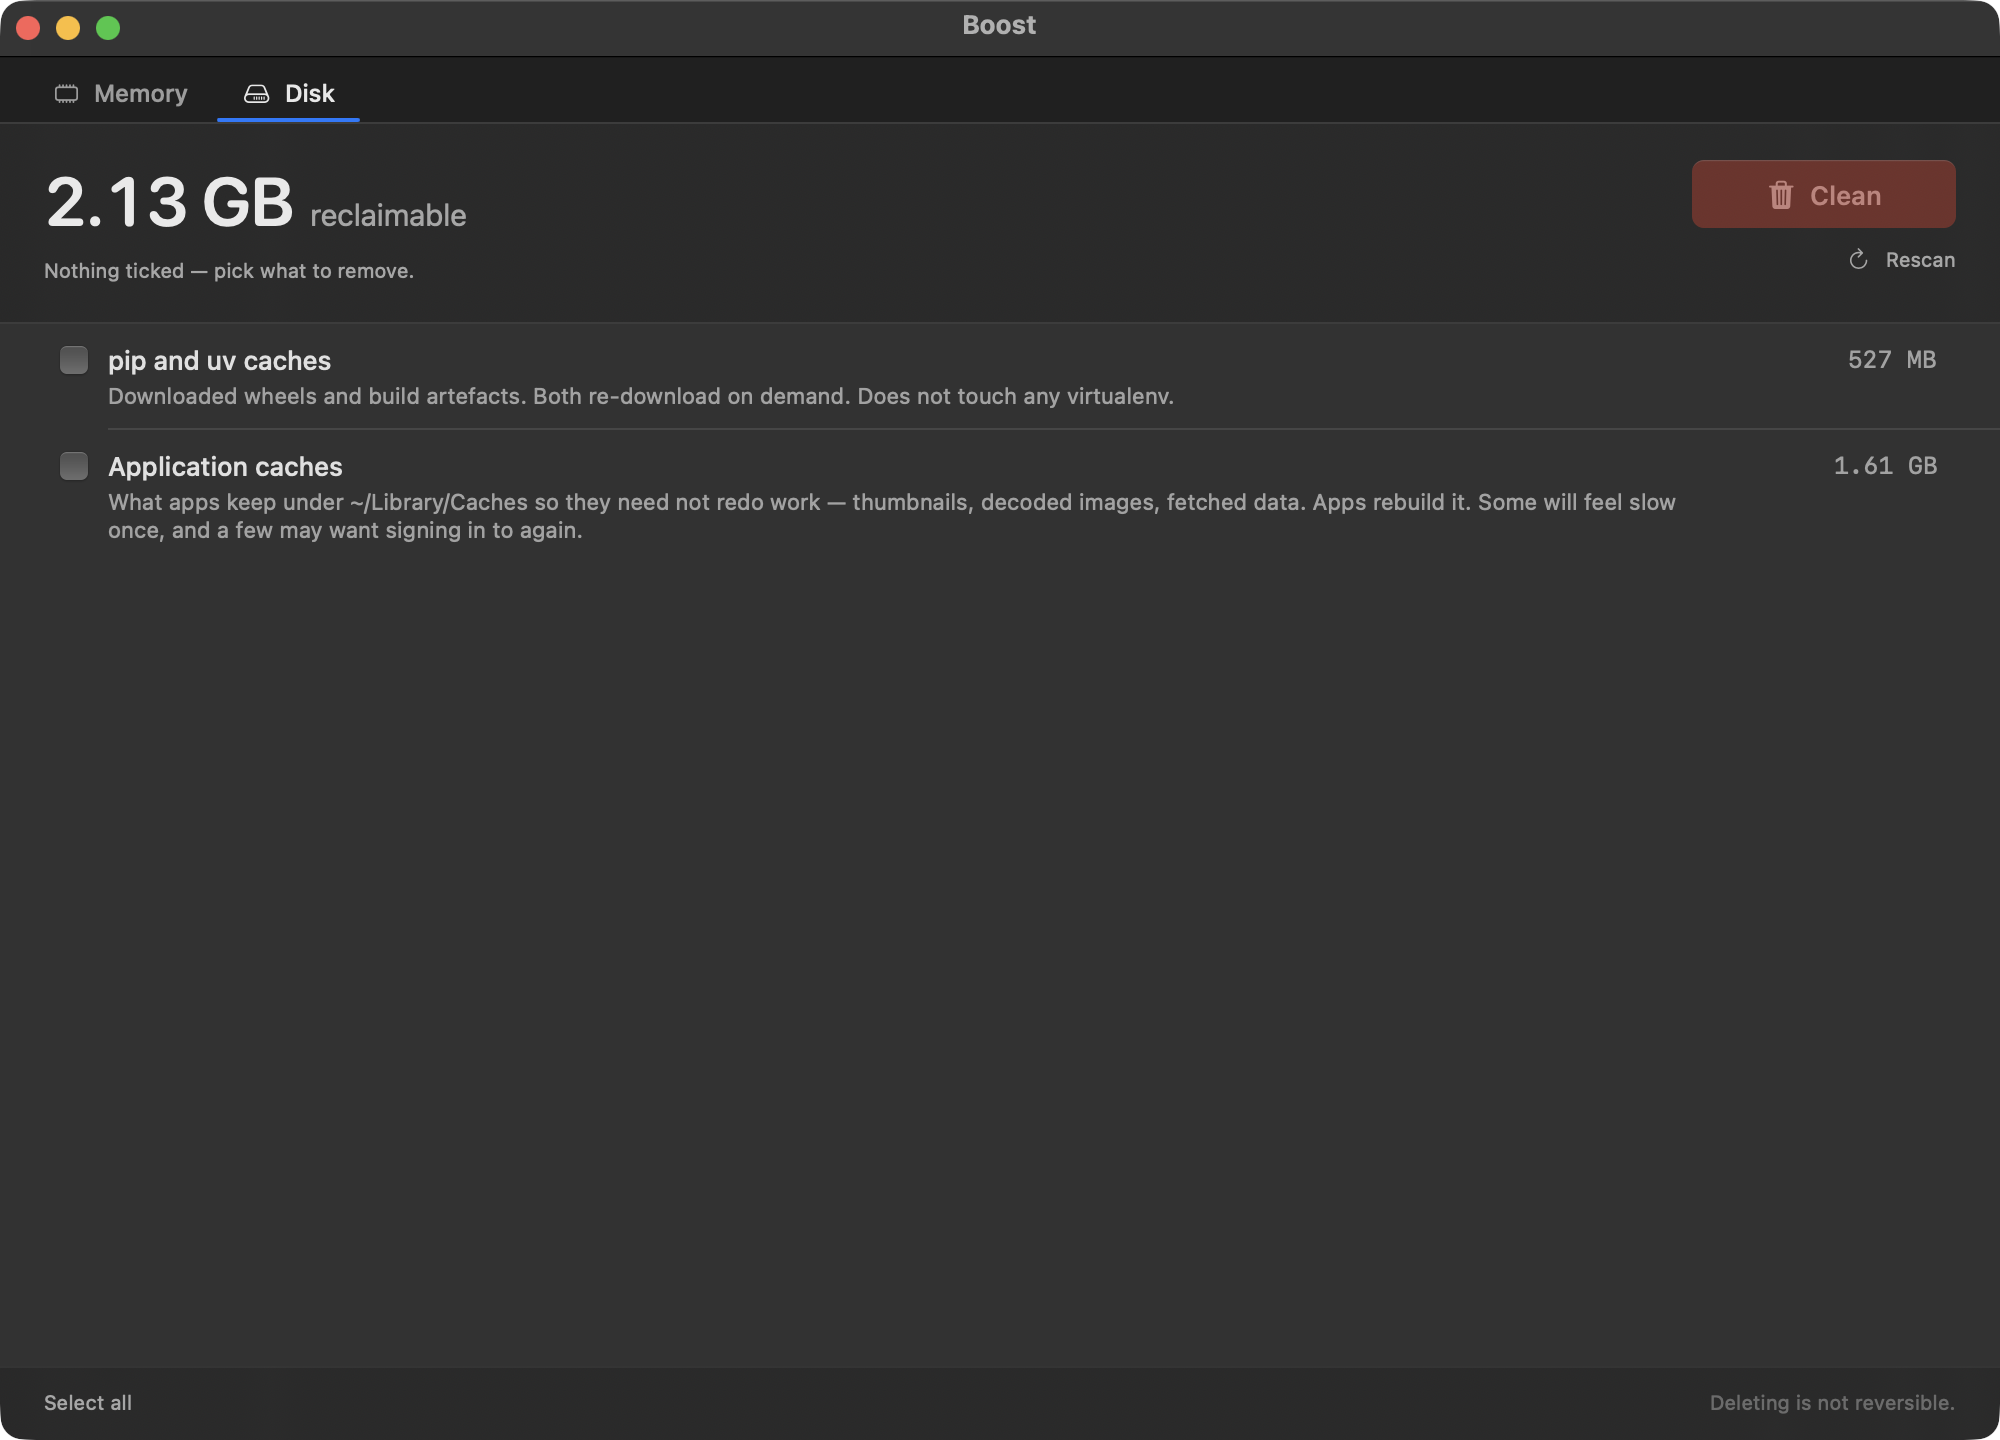
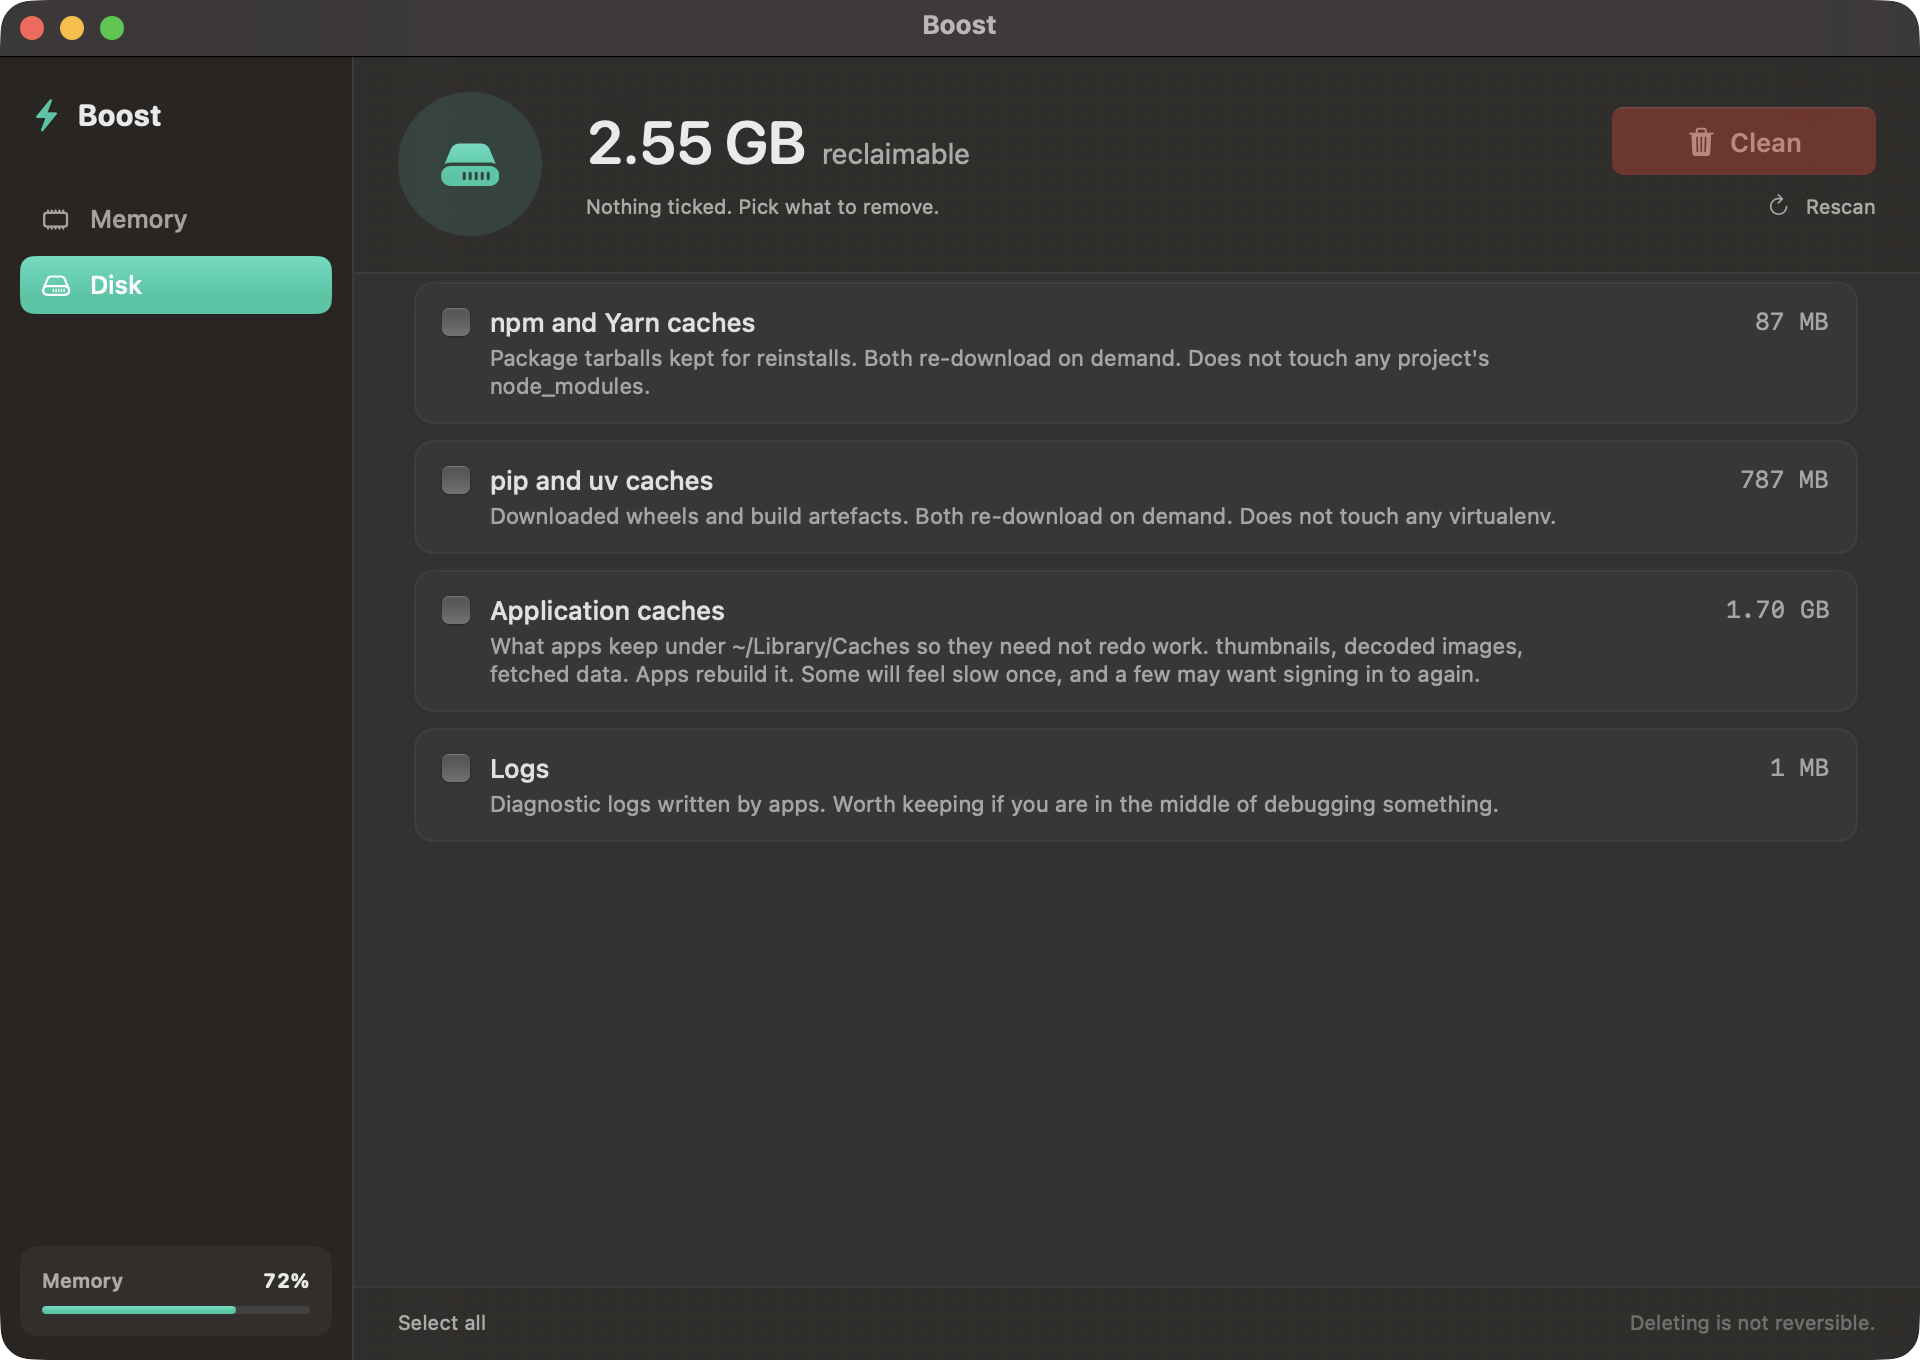
Update the README for the redesign, and explain the Mem Reduct gap properly
Screenshots replaced with the current UI (sidebar, radial gauge, card
list, floating header) and a new one added for the Settings window.

The Mem Reduct comparison section now explains the actual platform gap
instead of a general "macOS doesn't expose the same switch" line:
EmptyWorkingSet has no macOS equivalent for reaching into another
process's memory, confirmed against Apple's own kernel source, and
even if it did, deliberately forcing pages to swap works against the
compression-first design Apple built specifically to avoid that cost.
Also sets an honest expectation (a few hundred MB to around a
gigabyte per run, the same range Apple's own purge tool nets) instead
of leaving the number unexplained, and points at the new aggressive
mode in Settings for anyone who wants to push past that on purpose.

Elsewhere and Settings sections updated for what actually shipped
this round: the Dock badge, sort control, Reveal in Finder, and the
Settings window itself.

diff --git a/README.md b/README.md
@@ -22,8 +22,8 @@ cd boost && ./Scripts/build.sh
 macOS 14+, Apple Silicon and Intel — every build is universal, one binary for
 both. Builds with Command Line Tools. Xcode is not required.
 
-![Boost's memory tab: 10.40 GB in use of 16.00 GB, a pressure sparkline, and a
-list of running apps grouped with their helper processes](docs/images/memory.png)
+![Boost's memory tab: a radial pressure gauge, 11.56 GB in use of 16.00 GB, and
+a card list of running apps grouped with their helper processes](docs/images/memory.png)
 
 > **On signing.** Boost is signed with a local certificate, not notarized:
 > notarizing needs a paid Apple Developer account, and this is free software.
@@ -54,26 +54,43 @@ Boost is built the other way round:
 
 ## Free Memory, compared with Mem Reduct
 
-Mem Reduct on Windows can call Windows memory-management APIs directly. macOS
-does not expose the same "trim every working set" switch to apps.
+Mem Reduct works by calling `EmptyWorkingSet`, a Windows API that lets one
+process force another process's pages out to the pagefile. macOS has no
+equivalent. No public API lets a third-party app reach into another process
+and push its memory to disk. That's confirmed in
+[Apple's own kernel source](https://github.com/apple-oss-distributions/xnu/blob/main/doc/vm/memorystatus_notify.md),
+not a limitation of this app.
 
-Boost uses the safe macOS route instead: it briefly asks macOS for memory using
-Apple's own `memory_pressure` tool, which nudges the system to release idle
-pages and compress what can be compressed. Boost then gives that request back,
-checks the before and after readings, and reports only the memory that stopped
-being used.
+It's also not a technique worth copying if it existed. Apple redesigned macOS
+around memory compression specifically to avoid swap: reading a compressed
+page back from RAM is far faster than reading from disk, even an SSD, and
+repeated swap writes wear the drive down. Mem Reduct's approach predates that
+redesign. On today's macOS, deliberately forcing pages to swap would make the
+Mac slower, not lighter.
+
+So Boost uses the route macOS actually offers: it briefly asks the system for
+memory using Apple's own `memory_pressure` tool, which nudges the kernel to
+release idle pages and compress what it can. Boost then gives that request
+back, checks the before and after readings, and reports only the memory that
+stopped being used.
 
 That means:
 
 - It does not close apps.
 - It does not delete files.
-- It does not need your admin password.
+- It does not need your admin password, unless you turn on the optional disk
+  cache purge yourself.
 - It stops early if swap starts growing, because paging to disk would cost more
   than the reclaim is worth.
 
-This does not harm the Mac. It uses a system tool shipped by Apple, keeps the run
-short, and stops when the safety checks say the Mac has no cheap memory left to
-give back.
+Expect a few hundred MB to around a gigabyte on a typical run. That's not a
+bug: even `purge`, Apple's own and more aggressive disk-cache tool, nets a
+similar range on Apple Silicon. If your Mac genuinely isn't short on memory,
+there isn't much sitting idle to give back, on Windows or on macOS. If you
+want Boost to push harder anyway, Settings has an aggressive mode that asks
+for memory more forcefully. It's off by default and says why in the same
+screen: pushed far enough, it can be the reason the kernel decides to kill
+something on its own, with no warning from Boost first.
 
 ## What it does
 
@@ -129,11 +146,20 @@ this destroy data; there is a test that builds exactly that trap.
 ### Elsewhere
 
 - **Menu bar** readout, showing the number only when it is worth reading
+- **Dock icon badge**, the same idea applied to the one place you can see it
+  without opening Boost at all
 - **⌥⌘B** from any app (off by default, because claiming a system-wide shortcut is not
   something an app should help itself to)
+- **Sort the list** by name, memory, or CPU, in either direction
+- **Reveal in Finder** from any row's menu
 - **Close button quits the app**, for apps that stay running with no windows
 - **Warn me when swap climbs**: tells you, and can pause what is ticked. It
   can never close anything, and a test enforces that
+- **Settings (⌘,)** holds all of the above, plus the aggressive reclaim mode
+  and the optional disk cache purge
+
+![Boost's Settings window: window behaviour, the aggressive reclaim toggle
+with its trade-off spelled out, and the swap-warning rule](docs/images/settings.png)
 
 ## Permissions
 
